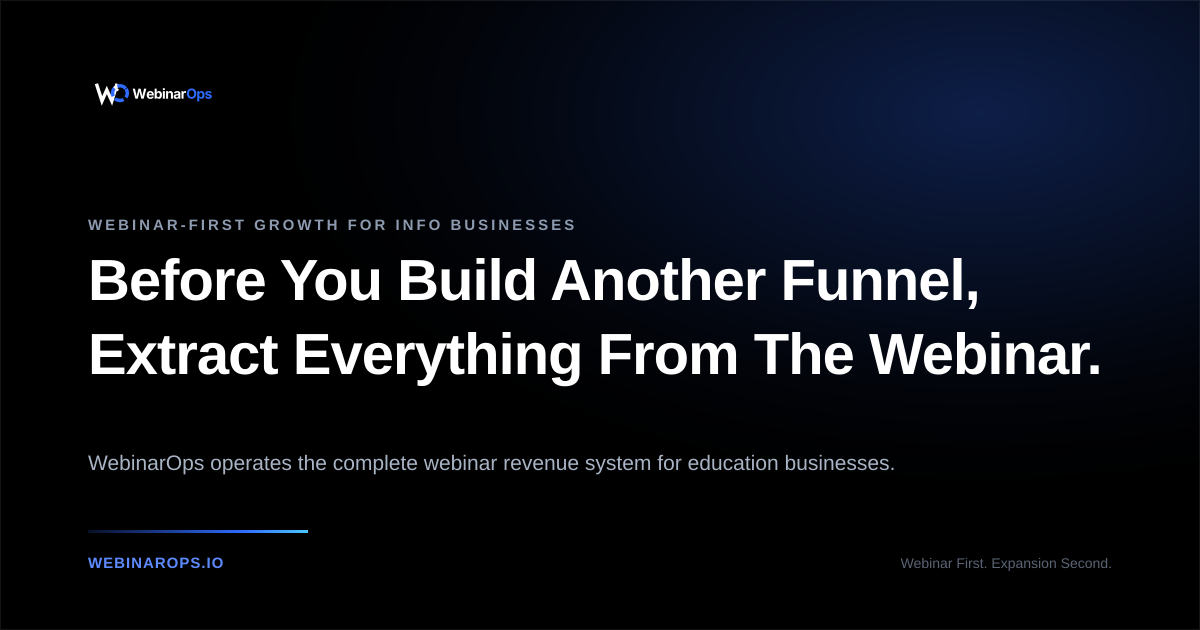
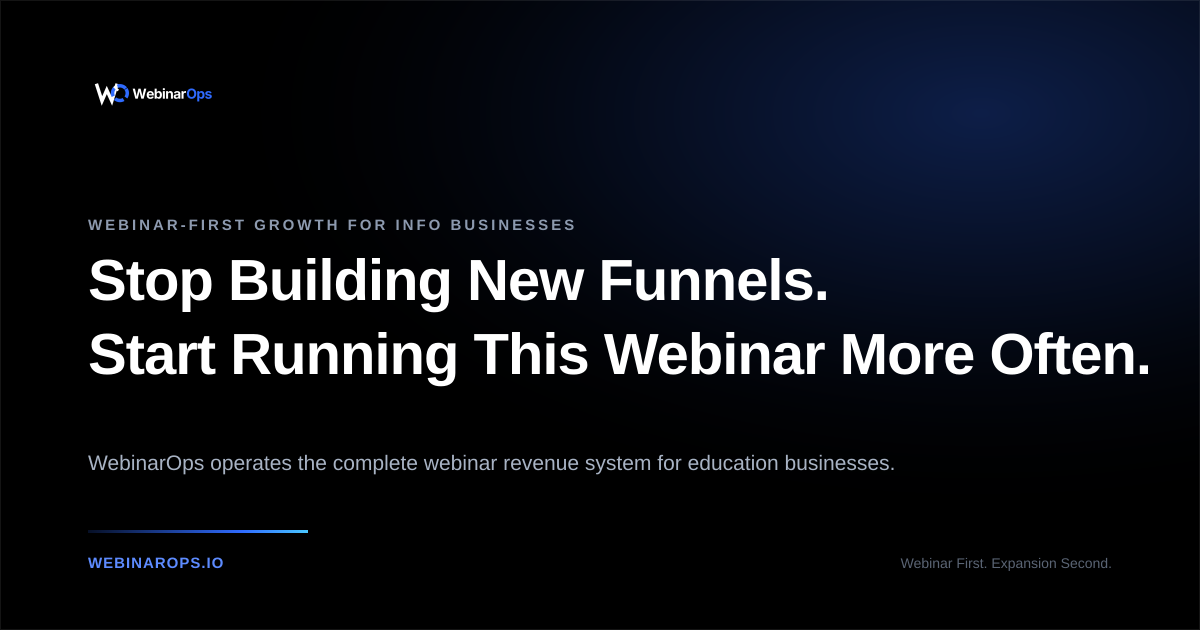
Show the built forecast immediately; add a pre-call fit check
The forecast wizard now surfaces the modelled numbers (target/conservative/
upside, registrations, attendees, buyers, revenue per registrant) right on
the confirmation screen the moment a visitor submits, instead of only
promising to review them on a call.

Also adds a "Quick fit check" — six yes/no/unsure toggles mirroring the
homepage's Strong Fit criteria — to step 1 of the wizard, so WebinarOps can
triage a lead before a call happens rather than after. The notification
email now leads with a fit-check summary and the subject line is prefixed
with the score (e.g. "[Fit 5/6]") for inbox triage.

Also swaps the home hero headline to lead with running the webinar more
often rather than funnel-avoidance, and regenerates the home OG image to
match.

Claude-Session: https://claude.ai/code/session_01NzPa8EQUcrsWUbZM2psyFV

Changed region(s): [[0.0617, 0.5127, 0.9558, 0.6333], [0.0617, 0.3921, 0.8325, 0.5127]]

diff --git a/src/components/ForecastWizard.tsx b/src/components/ForecastWizard.tsx
@@ -3,12 +3,17 @@ import type { ChangeEvent } from 'react';
 import {
   type ForecastForm,
   type ScenarioFields,
+  type QualificationFields,
+  type FitAnswer,
+  QUALIFICATION_QUESTIONS,
+  emptyQualification,
   emptyContact,
   emptyBusiness,
   emptyBaseline,
   emptyEconomics,
   defaultScenario,
   calcScenario,
+  fitScore,
   money,
   fmt,
 } from '../lib/forecast';
@@ -96,9 +101,48 @@ function NumberField({
   );
 }
 
+const FIT_OPTIONS: { value: FitAnswer; label: string }[] = [
+  { value: 'yes', label: 'Yes' },
+  { value: 'no', label: 'No' },
+  { value: 'unsure', label: 'Not sure' },
+];
+
+function FitToggle({ label, value, onChange }: { label: string; value: FitAnswer; onChange: (v: FitAnswer) => void }) {
+  return (
+    <div style={{ display: 'flex', justifyContent: 'space-between', alignItems: 'center', gap: 16, padding: '14px 0', borderTop: '1px solid rgba(255,255,255,.08)' }}>
+      <span style={{ fontSize: 14, lineHeight: 1.4, color: '#DCE5F3', maxWidth: '46ch' }}>{label}</span>
+      <div style={{ display: 'flex', gap: 6, flex: 'none' }}>
+        {FIT_OPTIONS.map((opt) => {
+          const active = value === opt.value;
+          return (
+            <button
+              key={opt.value}
+              type="button"
+              onClick={() => onChange(active ? '' : opt.value)}
+              style={{
+                fontSize: 12.5,
+                fontWeight: 600,
+                padding: '8px 14px',
+                borderRadius: 6,
+                cursor: 'pointer',
+                border: active ? '1px solid #2F6BFF' : '1px solid rgba(255,255,255,.14)',
+                background: active ? 'rgba(47,107,255,.16)' : 'transparent',
+                color: active ? '#fff' : '#8D9AAF',
+              }}
+            >
+              {opt.label}
+            </button>
+          );
+        })}
+      </div>
+    </div>
+  );
+}
+
 export default function ForecastWizard() {
   const [phase, setPhase] = useState<Phase>('form');
   const [step, setStep] = useState(1);
+  const [qualification, setQualification] = useState<QualificationFields>(emptyQualification);
   const [contact, setContact] = useState(emptyContact);
   const [business, setBusiness] = useState(emptyBusiness);
   const [baseline, setBaseline] = useState(emptyBaseline);
@@ -176,7 +220,7 @@ export default function ForecastWizard() {
     setSubmitStatus('submitting');
     setSubmitError('');
     const payload: ForecastForm = {
-      contact, business, baseline, economics, scenario, attribution,
+      qualification, contact, business, baseline, economics, scenario, attribution,
       consentProcessing, consentEstimate,
     };
     try {
@@ -200,6 +244,8 @@ export default function ForecastWizard() {
 
   const stepPct = (step / 6) * 100 + '%';
 
+  const { yes: fitYes, total: fitTotal } = fitScore(qualification);
+  const fitAnswered = Object.values(qualification).filter((v) => v).length;
   const contactReported = [contact.firstName, contact.lastName, contact.email, contact.phone, contact.company, contact.website, contact.countryTz, contact.role].filter((v) => v.trim()).length;
   const businessReported = Object.values(business).filter((v) => v.trim()).length;
   const baselineReported = Object.values(baseline).filter((v) => v.trim()).length;
@@ -225,17 +271,17 @@ export default function ForecastWizard() {
           <div className="container" style={{ maxWidth: 1180, padding: '72px 32px 56px' }}>
             <div style={{ display: 'flex', alignItems: 'center', gap: 10, marginBottom: 22 }}>
               <span style={{ width: 6, height: 6, borderRadius: '50%', background: '#27D17F' }} />
-              <span style={{ fontSize: 11, fontWeight: 600, letterSpacing: '.2em', color: '#27D17F' }}>FORECAST SUBMITTED</span>
+              <span style={{ fontSize: 11, fontWeight: 600, letterSpacing: '.2em', color: '#27D17F' }}>FORECAST BUILT</span>
             </div>
             <h1 className="h1" style={{ maxWidth: '26ch', fontSize: 'clamp(30px,3.6vw,50px)', lineHeight: 1.06, letterSpacing: '-.03em' }}>
-              Your Inputs Are In. Now Let&rsquo;s Review What the Numbers Actually Mean.
+              Here&rsquo;s Your Modelled Forecast.
             </h1>
             <p style={{ margin: '26px 0 36px', maxWidth: '66ch', fontSize: 17, lineHeight: 1.6, color: '#A8B3C4' }}>
-              Choose a time below for a Webinar Forecast Review. We&rsquo;ll pressure-test the assumptions, identify the biggest constraint in the model, and determine whether WebinarOps is the right operating partner for the next stage.
+              Built from the assumptions you entered, below. If you want a second pair of eyes on those assumptions and the constraint capping the model, book a 30-minute Webinar Forecast Review.
             </p>
             <div style={{ display: 'grid', gridTemplateColumns: 'repeat(3,1fr)', gap: 1, background: 'rgba(255,255,255,.09)', border: '1px solid rgba(255,255,255,.09)', borderRadius: 10, overflow: 'hidden', maxWidth: 760 }}>
               <div style={{ background: '#05070B', padding: '18px 20px', display: 'flex', alignItems: 'center', gap: 10 }}><span style={{ color: '#27D17F', fontSize: 14, fontWeight: 700 }}>&check;</span><span style={{ fontSize: 13.5, fontWeight: 600, color: '#DCE5F3' }}>Submission received</span></div>
-              <div style={{ background: '#05070B', padding: '18px 20px', display: 'flex', alignItems: 'center', gap: 10 }}><span style={{ color: '#27D17F', fontSize: 14, fontWeight: 700 }}>&check;</span><span style={{ fontSize: 13.5, fontWeight: 600, color: '#DCE5F3' }}>Forecast queued for review</span></div>
+              <div style={{ background: '#05070B', padding: '18px 20px', display: 'flex', alignItems: 'center', gap: 10 }}><span style={{ color: '#27D17F', fontSize: 14, fontWeight: 700 }}>&check;</span><span style={{ fontSize: 13.5, fontWeight: 600, color: '#DCE5F3' }}>Forecast built</span></div>
               {booked ? (
                 <div style={{ background: 'rgba(39,209,127,.1)', padding: '18px 20px', display: 'flex', alignItems: 'center', gap: 10 }}><span style={{ color: '#27D17F', fontSize: 14, fontWeight: 700 }}>&check;</span><span style={{ fontSize: 13.5, fontWeight: 700, color: '#fff' }}>Call booked</span></div>
               ) : (
@@ -246,7 +292,49 @@ export default function ForecastWizard() {
         </section>
 
         <section className="section">
-          <div className="container" style={{ maxWidth: 1180, padding: '56px 32px', display: 'grid', gridTemplateColumns: '1.35fr 1fr', gap: 48, alignItems: 'start' }}>
+          <div className="container" style={{ maxWidth: 1180, padding: '56px 32px' }}>
+            <div style={{ border: '1px solid rgba(47,107,255,.28)', borderRadius: 12, overflow: 'hidden', background: 'linear-gradient(180deg,rgba(47,107,255,.06),rgba(47,107,255,0))' }}>
+              <div style={{ padding: '14px 22px', borderBottom: '1px solid rgba(47,107,255,.2)', display: 'flex', justifyContent: 'space-between', alignItems: 'center' }}>
+                <span style={{ fontSize: 11.5, fontWeight: 600, letterSpacing: '.14em', color: '#5D8BFF' }}>YOUR MODELLED FORECAST · TARGET SCENARIO</span>
+                <span className="badge badge--amber">ESTIMATE</span>
+              </div>
+              <div style={{ padding: '26px 22px' }}>
+                <div style={{ fontSize: 12, fontWeight: 600, letterSpacing: '.14em', color: '#6B7688', marginBottom: 8 }}>MODELLED MONTHLY GROSS</div>
+                <div style={{ fontSize: 40, fontWeight: 800, letterSpacing: '-.035em', lineHeight: 1, marginBottom: 22, fontVariantNumeric: 'tabular-nums' }}>{money(target.gross)}</div>
+                <div style={{ display: 'grid', gridTemplateColumns: 'repeat(4,1fr)', gap: 1, background: 'rgba(255,255,255,.09)', border: '1px solid rgba(255,255,255,.09)', borderRadius: 8, overflow: 'hidden', marginBottom: 22 }}>
+                  <div style={{ background: '#07090E', padding: '16px 18px' }}><div style={{ fontSize: 10.5, letterSpacing: '.12em', color: '#6B7688', marginBottom: 8 }}>REGISTRATIONS</div><div style={{ fontSize: 20, fontWeight: 800, letterSpacing: '-.02em', fontVariantNumeric: 'tabular-nums' }}>{fmt(target.regs)}</div></div>
+                  <div style={{ background: '#07090E', padding: '16px 18px' }}><div style={{ fontSize: 10.5, letterSpacing: '.12em', color: '#6B7688', marginBottom: 8 }}>ATTENDEES</div><div style={{ fontSize: 20, fontWeight: 800, letterSpacing: '-.02em', fontVariantNumeric: 'tabular-nums' }}>{fmt(target.attendees)}</div></div>
+                  <div style={{ background: '#07090E', padding: '16px 18px' }}><div style={{ fontSize: 10.5, letterSpacing: '.12em', color: '#6B7688', marginBottom: 8 }}>BUYERS</div><div style={{ fontSize: 20, fontWeight: 800, letterSpacing: '-.02em', fontVariantNumeric: 'tabular-nums' }}>{fmt(target.buyers)}</div></div>
+                  <div style={{ background: '#07090E', padding: '16px 18px' }}><div style={{ fontSize: 10.5, letterSpacing: '.12em', color: '#6B7688', marginBottom: 8 }}>REV / REGISTRANT</div><div style={{ fontSize: 20, fontWeight: 800, letterSpacing: '-.02em', fontVariantNumeric: 'tabular-nums' }}>${target.rpr.toFixed(2)}</div></div>
+                </div>
+                <div style={{ display: 'grid', gridTemplateColumns: 'repeat(3,1fr)', gap: 10, marginBottom: 22 }}>
+                  <div style={{ border: '1px solid rgba(255,255,255,.1)', borderRadius: 8, padding: '14px 16px' }}><div style={{ display: 'flex', justifyContent: 'space-between', alignItems: 'baseline' }}><span style={{ fontSize: 12, letterSpacing: '.1em', color: '#8D9AAF' }}>CONSERVATIVE</span><span style={{ fontSize: 12, color: '#6B7688', fontVariantNumeric: 'tabular-nums' }}>{cons.roas.toFixed(2)}x</span></div><div style={{ fontSize: 20, fontWeight: 800, letterSpacing: '-.02em', marginTop: 6, fontVariantNumeric: 'tabular-nums' }}>{money(cons.gross)}</div></div>
+                  <div style={{ border: '1px solid rgba(47,107,255,.4)', borderRadius: 8, padding: '14px 16px', background: 'rgba(47,107,255,.07)' }}><div style={{ display: 'flex', justifyContent: 'space-between', alignItems: 'baseline' }}><span style={{ fontSize: 12, letterSpacing: '.1em', color: '#5D8BFF' }}>TARGET</span><span style={{ fontSize: 12, color: '#5D8BFF', fontVariantNumeric: 'tabular-nums' }}>{target.roas.toFixed(2)}x</span></div><div style={{ fontSize: 20, fontWeight: 800, letterSpacing: '-.02em', marginTop: 6, fontVariantNumeric: 'tabular-nums' }}>{money(target.gross)}</div></div>
+                  <div style={{ border: '1px solid rgba(255,255,255,.1)', borderRadius: 8, padding: '14px 16px' }}><div style={{ display: 'flex', justifyContent: 'space-between', alignItems: 'baseline' }}><span style={{ fontSize: 12, letterSpacing: '.1em', color: '#8D9AAF' }}>UPSIDE</span><span style={{ fontSize: 12, color: '#6B7688', fontVariantNumeric: 'tabular-nums' }}>{up.roas.toFixed(2)}x</span></div><div style={{ fontSize: 20, fontWeight: 800, letterSpacing: '-.02em', marginTop: 6, fontVariantNumeric: 'tabular-nums' }}>{money(up.gross)}</div></div>
+                </div>
+                <details>
+                  <summary style={{ cursor: 'pointer', listStyle: 'none', fontSize: 13, fontWeight: 600, color: '#5D8BFF' }}>How this is calculated</summary>
+                  <div style={{ marginTop: 14, fontFamily: 'ui-monospace,SFMono-Regular,Menlo,monospace', fontSize: 11.5, lineHeight: 1.9, color: '#6B7688' }}>
+                    paid_registrations = media_budget / cost_per_registration<br />
+                    registrations = paid_registrations + organic_registrations<br />
+                    attendees = registrations &times; attendance_rate<br />
+                    core_buyers = attendees &times; attendee_conversion<br />
+                    replay_buyers = core_buyers &times; replay_uplift<br />
+                    vip_revenue = registrations &times; vip_take &times; vip_price<br />
+                    bump_revenue = buyers &times; bump_take &times; bump_price<br />
+                    upsell_revenue = buyers &times; upsell_take &times; upsell_price<br />
+                    contribution = gross_revenue &minus; media_spend &minus; variable_costs<br />
+                    conservative = target &times; 0.78 &middot; upside = target &times; 1.18
+                  </div>
+                </details>
+                <div style={{ marginTop: 18, fontSize: 12, lineHeight: 1.55, color: '#6B7688' }}>Forecasts are estimates based on the information and assumptions you provided. They are not guarantees of revenue, profitability, advertising performance, or business results.</div>
+              </div>
+            </div>
+          </div>
+        </section>
+
+        <section className="section">
+          <div className="container" style={{ maxWidth: 1180, padding: '0 32px 56px', display: 'grid', gridTemplateColumns: '1.35fr 1fr', gap: 48, alignItems: 'start' }}>
             <div>
               {!booked ? (
                 <div className="card" style={{ overflow: 'hidden' }}>
@@ -276,7 +364,7 @@ export default function ForecastWizard() {
                 <div className="eyebrow" style={{ marginBottom: 24 }}>WHAT HAPPENS ON THE CALL</div>
                 <div style={{ display: 'flex', flexDirection: 'column', gap: 1, background: 'rgba(255,255,255,.09)', border: '1px solid rgba(255,255,255,.09)', borderRadius: 10, overflow: 'hidden' }}>
                   {[
-                    'Validate the inputs and assumptions you entered.',
+                    'Validate the inputs and assumptions behind the number above.',
                     'Map the economics from registration through backend monetization.',
                     'Identify the highest-leverage constraint in the model.',
                     'Decide whether to build, optimize, or wait.',
@@ -348,6 +436,20 @@ export default function ForecastWizard() {
 
           {step === 1 && (
             <div style={{ padding: '36px 36px 32px' }}>
+              <div style={{ marginBottom: 32, paddingBottom: 32, borderBottom: '1px solid rgba(255,255,255,.09)' }}>
+                <h2 style={{ margin: '0 0 8px', fontSize: 23, fontWeight: 700, letterSpacing: '-.02em' }}>Quick fit check</h2>
+                <p style={{ margin: '0 0 8px', fontSize: 14.5, lineHeight: 1.6, color: '#6B7688', maxWidth: '62ch' }}>Six questions, thirty seconds. This is what we look at before a call, in either direction.</p>
+                <div>
+                  {QUALIFICATION_QUESTIONS.map((q) => (
+                    <FitToggle
+                      key={q.key}
+                      label={q.label}
+                      value={qualification[q.key]}
+                      onChange={(v) => setQualification((s) => ({ ...s, [q.key]: v }))}
+                    />
+                  ))}
+                </div>
+              </div>
               <h2 style={{ margin: '0 0 8px', fontSize: 23, fontWeight: 700, letterSpacing: '-.02em' }}>Contact and attribution</h2>
               <p style={{ margin: '0 0 32px', fontSize: 14.5, lineHeight: 1.6, color: '#6B7688', maxWidth: '62ch' }}>So the forecast reaches the right person, and so we know which promise you saw before you got here.</p>
               <div style={{ display: 'grid', gridTemplateColumns: '1fr 1fr', gap: 20 }}>
@@ -524,6 +626,7 @@ export default function ForecastWizard() {
               <h2 style={{ margin: '0 0 8px', fontSize: 23, fontWeight: 700, letterSpacing: '-.02em' }}>Review and submit</h2>
               <p style={{ margin: '0 0 28px', fontSize: 14.5, lineHeight: 1.6, color: '#6B7688', maxWidth: '62ch' }}>Every value is labelled by how it got here. Edit any section before generating the forecast.</p>
               <div style={{ display: 'flex', flexDirection: 'column', gap: 10, marginBottom: 28 }}>
+                <ReviewRow title="Quick fit check" detail={`${fitAnswered} of ${fitTotal} answered · ${fitYes} of ${fitTotal} yes`} status={fitAnswered === fitTotal ? 'complete' : `${fitTotal - fitAnswered} unanswered`} onEdit={() => goStep(1)} />
                 <ReviewRow title="Contact and attribution" detail={`8 fields · ${contactReported} reported`} status={contactReported === 8 ? 'complete' : `${8 - contactReported} unknown`} onEdit={() => goStep(1)} />
                 <ReviewRow title="Business and offer" detail={`10 fields · ${businessReported} reported`} status={businessReported === 10 ? 'complete' : `${10 - businessReported} unknown`} onEdit={() => goStep(2)} />
                 <ReviewRow title="Current funnel baseline" detail={`15 fields · ${baselineReported} reported`} status={baselineReported === 15 ? 'complete' : `${15 - baselineReported} unknown`} onEdit={() => goStep(3)} />

diff --git a/src/pages/api/submit-forecast.ts b/src/pages/api/submit-forecast.ts
@@ -1,7 +1,7 @@
 import type { APIRoute } from 'astro';
 import { Resend } from 'resend';
 import type { CalcResult, ForecastForm } from '../../lib/forecast';
-import { money, fmt } from '../../lib/forecast';
+import { money, fmt, fitScore, QUALIFICATION_QUESTIONS } from '../../lib/forecast';
 
 export const prerender = false;
 
@@ -122,10 +122,18 @@ function buildEmailHtml(body: SubmitBody): string {
     row('utm_campaign', form.attribution.utmCampaign) +
     row('Captured at', form.attribution.capturedAt);
 
+  const { yes, total } = fitScore(form.qualification);
+  const fitColor = yes === total ? '#0A8A4B' : yes >= total / 2 ? '#B7791F' : '#B42318';
+  const fitRows = QUALIFICATION_QUESTIONS
+    .map((q) => row(q.label, form.qualification[q.key] ? capitalize(form.qualification[q.key]) : 'Not answered'))
+    .join('');
+
   return `
   <div style="font-family:-apple-system,Helvetica,Arial,sans-serif;color:#111;max-width:640px">
     <h2 style="margin:0 0 4px">New webinar forecast submission</h2>
     <p style="margin:0 0 16px;color:#6B7688;font-size:13px">${escapeHtml(c.firstName)} ${escapeHtml(c.lastName)} &middot; ${escapeHtml(c.company || 'no company given')}</p>
+    <div style="display:inline-block;padding:6px 12px;border-radius:6px;background:${fitColor};color:#fff;font-size:13px;font-weight:700;margin-bottom:8px">Fit check: ${yes} / ${total} yes</div>
+    ${section('Quick fit check', fitRows)}
     ${section('Modelled outcome (target scenario)', modelRows)}
     ${section('Contact', contactRows)}
     ${section('Business and offer', businessRows)}
@@ -134,6 +142,10 @@ function buildEmailHtml(body: SubmitBody): string {
     ${section('Scenario assumptions', scenarioRows)}
     ${section('Attribution', attributionRows)}
   </div>`;
+}
+
+function capitalize(s: string): string {
+  return s.charAt(0).toUpperCase() + s.slice(1);
 }
 
 export const POST: APIRoute = async ({ request }) => {
@@ -163,11 +175,12 @@ export const POST: APIRoute = async ({ request }) => {
 
   try {
     const resend = new Resend(apiKey);
+    const { yes, total } = fitScore(body.form.qualification);
     const { error } = await resend.emails.send({
       from,
       to,
       replyTo: c.email,
-      subject: `New forecast: ${c.firstName} ${c.lastName}${c.company ? ` (${c.company})` : ''}`,
+      subject: `[Fit ${yes}/${total}] New forecast: ${c.firstName} ${c.lastName}${c.company ? ` (${c.company})` : ''}`,
       html: buildEmailHtml(body),
     });
     if (error) {

diff --git a/src/lib/forecast.ts b/src/lib/forecast.ts
@@ -78,6 +78,37 @@ export interface ScenarioFields {
   replay: number;
 }
 
+export type FitAnswer = '' | 'yes' | 'no' | 'unsure';
+
+export interface QualificationFields {
+  validatedOffer: FitAnswer;
+  repeatCadence: FitAnswer;
+  paidAcquisition: FitAnswer;
+  fulfillmentCapacity: FitAnswer;
+  dataDriven: FitAnswer;
+  onePartner: FitAnswer;
+}
+
+export const QUALIFICATION_QUESTIONS: { key: keyof QualificationFields; label: string }[] = [
+  { key: 'validatedOffer', label: 'Do you have a validated offer with real, paying customers?' },
+  { key: 'repeatCadence', label: 'Willing to run the webinar repeatedly, not just once?' },
+  { key: 'paidAcquisition', label: 'Able to invest in paid acquisition, paid directly to the ad platforms?' },
+  { key: 'fulfillmentCapacity', label: 'Fulfillment capacity to serve more customers?' },
+  { key: 'dataDriven', label: 'Comfortable making decisions from performance data?' },
+  { key: 'onePartner', label: 'Looking for one accountable partner rather than several vendors?' },
+];
+
+export const emptyQualification: QualificationFields = {
+  validatedOffer: '', repeatCadence: '', paidAcquisition: '', fulfillmentCapacity: '', dataDriven: '', onePartner: '',
+};
+
+/** Count of "yes" answers out of the total question count, for lead triage. */
+export function fitScore(q: QualificationFields): { yes: number; total: number } {
+  const total = QUALIFICATION_QUESTIONS.length;
+  const yes = QUALIFICATION_QUESTIONS.filter((item) => q[item.key] === 'yes').length;
+  return { yes, total };
+}
+
 export interface AttributionInfo {
   landingPage: string;
   referrer: string;
@@ -90,6 +121,7 @@ export interface AttributionInfo {
 }
 
 export interface ForecastForm {
+  qualification: QualificationFields;
   contact: ContactFields;
   business: BusinessFields;
   baseline: BaselineFields;
